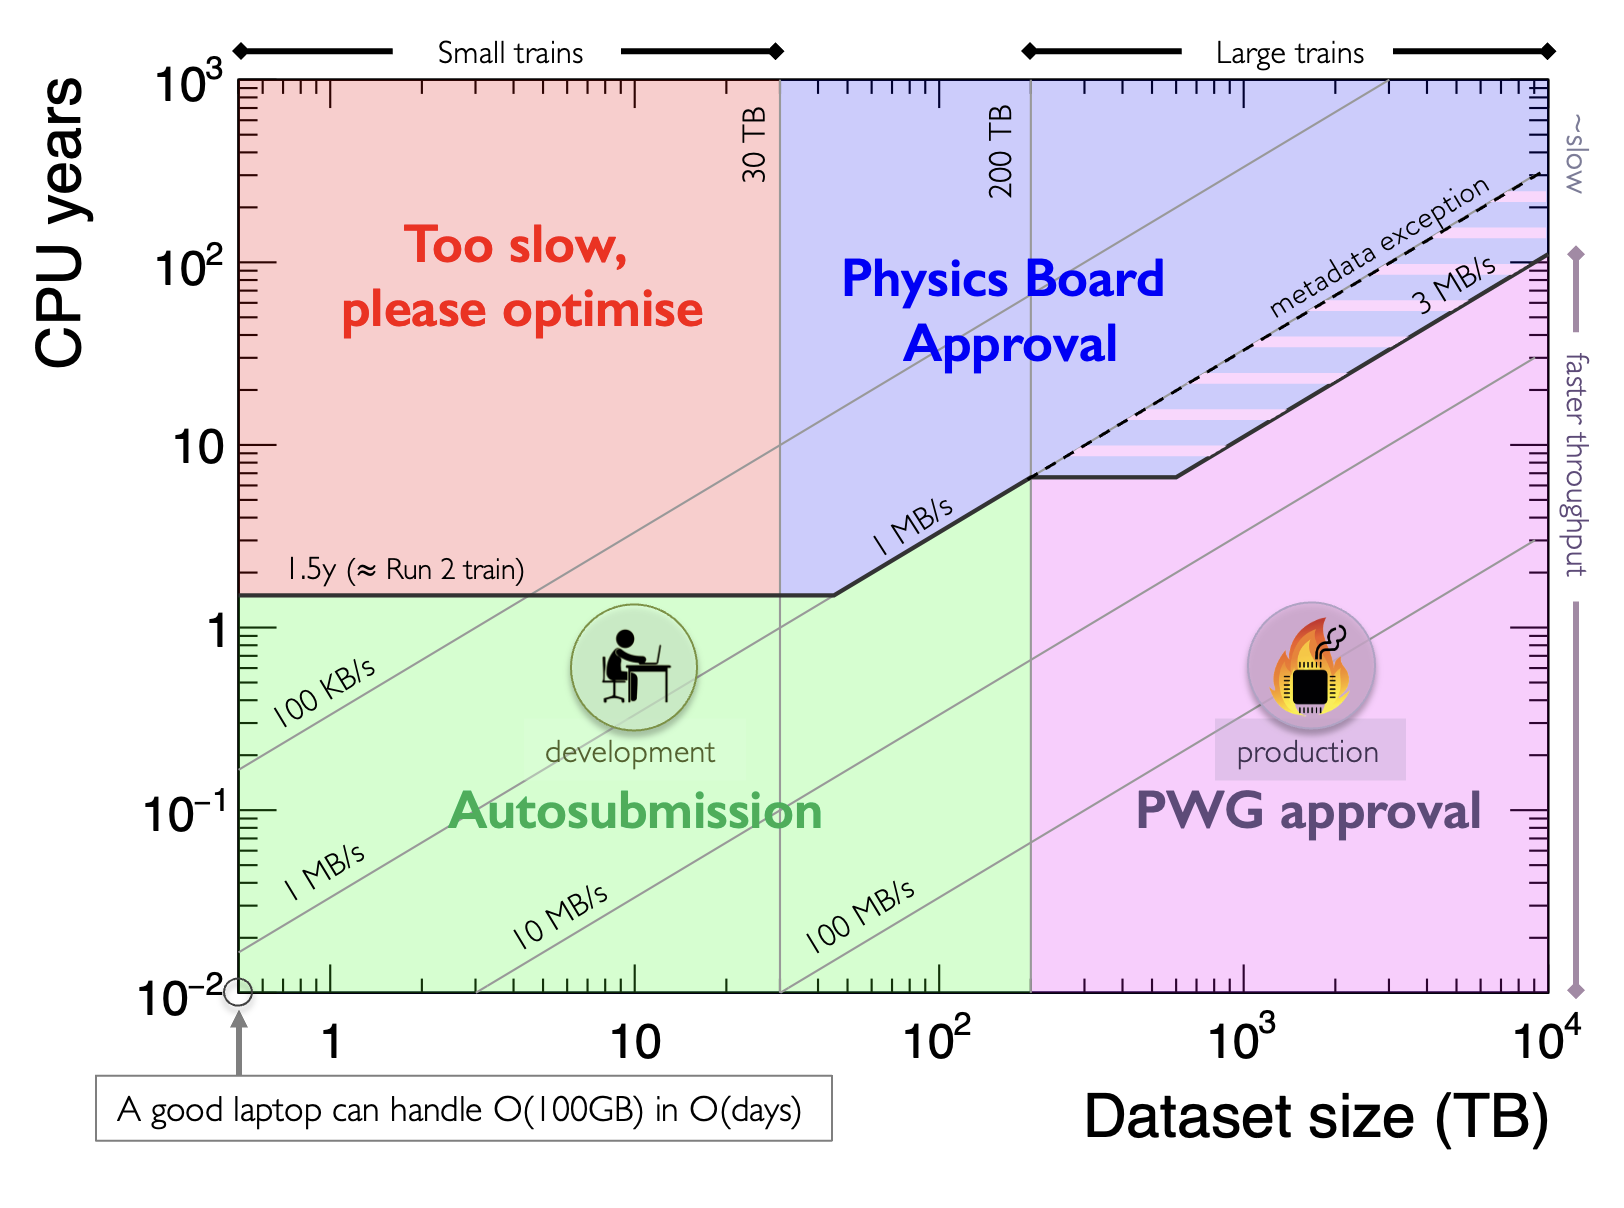
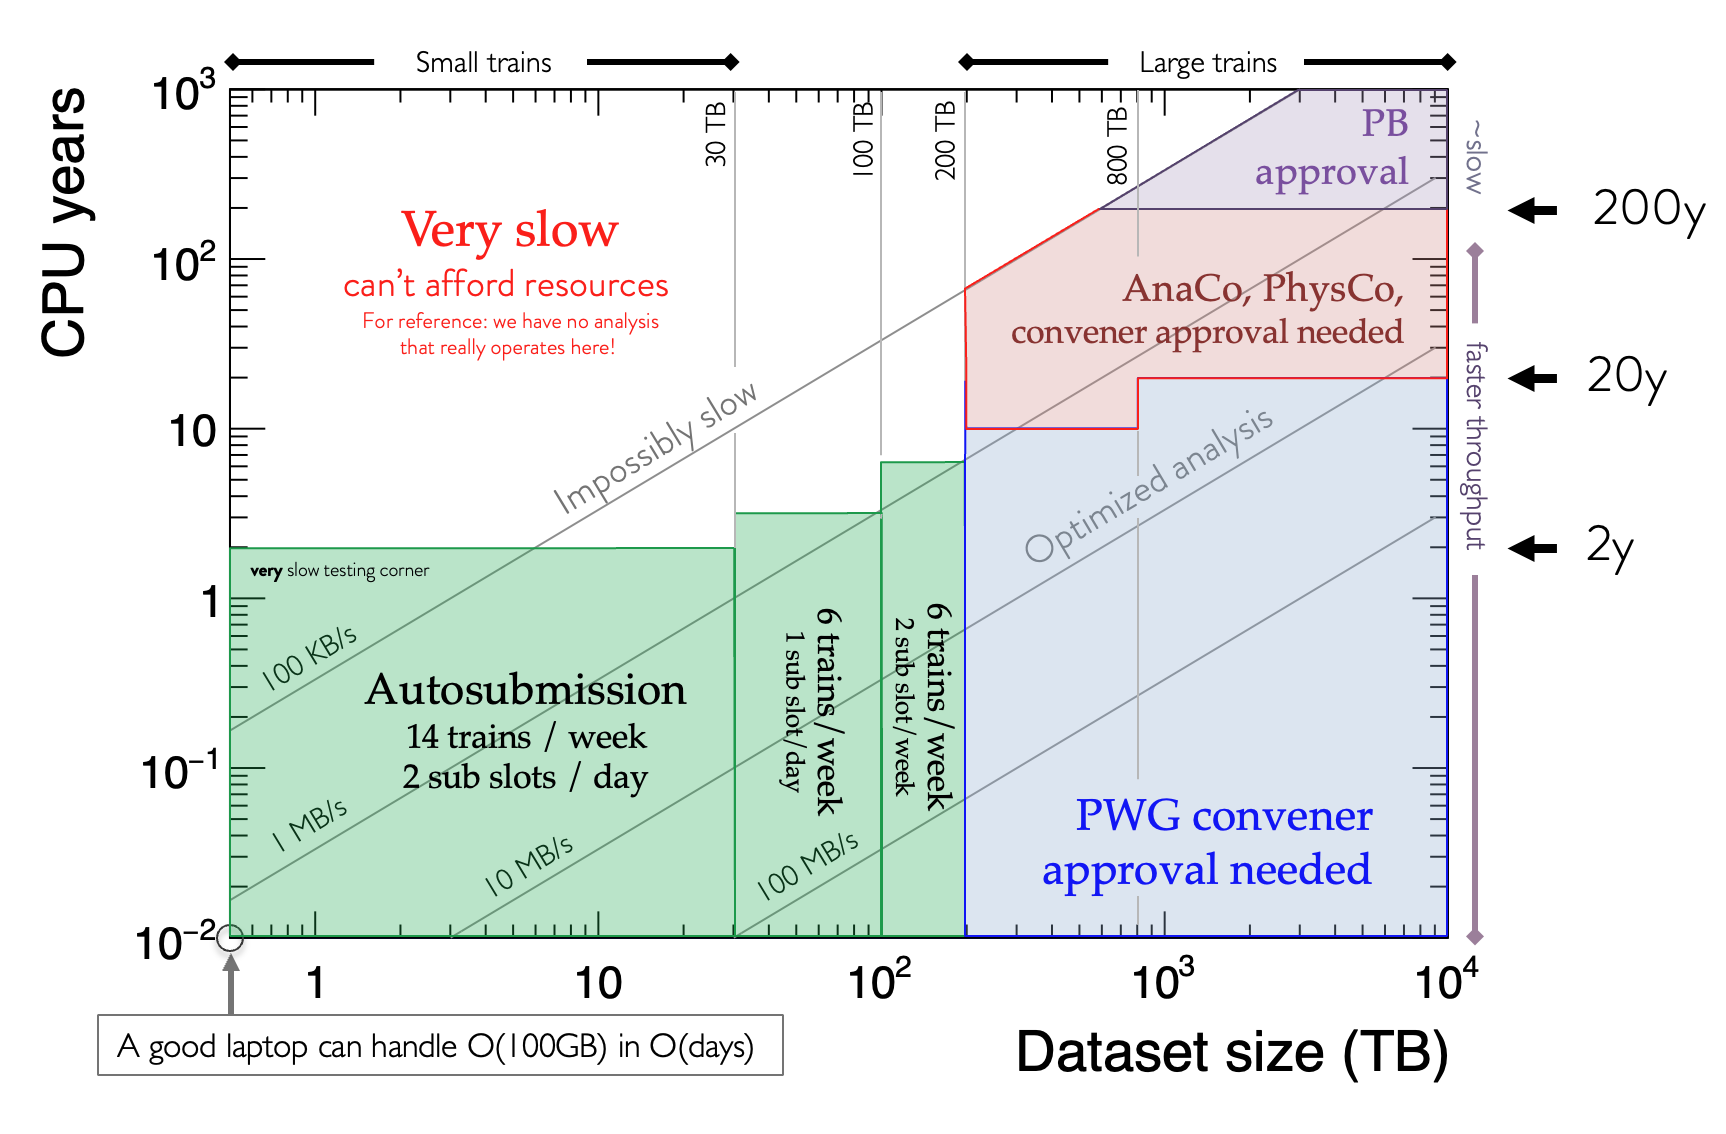
Update policy

diff --git a/docs/hyperloop/hyperlooppolicy.md b/docs/hyperloop/hyperlooppolicy.md
@@ -15,12 +15,16 @@ The image below summarizes the policy:
 
 In general, four categories of trains exist: 
 
-* Trains below 30 TB and taking more than 1.5y of CPU time (red shaded area) are very strongly discouraged. In those cases, please resort to very small trains (where throughputs of even 100 KB/s are allowed with autosubmission) to run. 
-* Trains that are lower than 1.5y in CPU usage and loop over less than 200 TB are free to execute and can be executed on Hyperloop via autosubmission. In a certain region between 30-200 TB, slightly more than 1.5y in CPU time is allowed as long as performance is better than 1 MB/s (green shaded area). 
-* Trains that loop over more than 200 TB and have a throughput of at least 3 MB/s can run, provided that PWG conveners approve them (pink shaded area). 
-* Heavy trains looping over datasets bigger than 200 TB or with low throughput above 30 TB, as marked in the blue region in the plot, require Physics Board approval to run. For those trains, a special analysis budget can be negotiated with the Physics Board.
-
-***Exceptionally***, trains based on metadata (i.e. trains covering multiple periods) are allowed to have throughput between 1 MB/s and 3 MB/s (and not just above 3 MB/s) for a few selected high-priority datasets. This is to provide incentives to running over master datasets and therefore will also increase the likelihood of running common trains with more than one wagon at a time. This exception is marked in the resource group map above.
+* Trains below 30 TB and taking more than 2.0y of CPU time (red shaded area) are very strongly discouraged. In those cases, please resort to very small trains (where throughputs of even 100 KB/s are allowed with autosubmission) to run. 
+* Trains that are lower than 2y in CPU usage and loop over less than 200 TB are free to execute and can be executed on Hyperloop via autosubmission. In a certain region between 30-200 TB, slightly more than 2y in CPU time is allowed (see sketch).
+* Trains that loop over more than 200 TB and less than 800 TB are dealt with as follows: 
+   * if they require less than 10 years of CPU time, they need only PWG convener approval. 
+   * if they require more than 10 years of CPU time but less than 200 years, they need Analysis and Physics Coordinator approval to run.
+   * if they require over 200 years of CPU, they need excplicit PB approval. 
+* Heavy trains looping over datasets bigger than 800 TB are dealt with as follows: 
+   * if they require less than 20 years of CPU time, they need only PWG approval. 
+   * if they require between 20 to 200y of CPU, they can be approved offline by Analysis and Physics Coordination.
+   * if  they require over 200 years of CPU, they need explicit PB approval. 
 
 ## <a name="implementation"></a>Implementation in Hyperloop datasets
 
